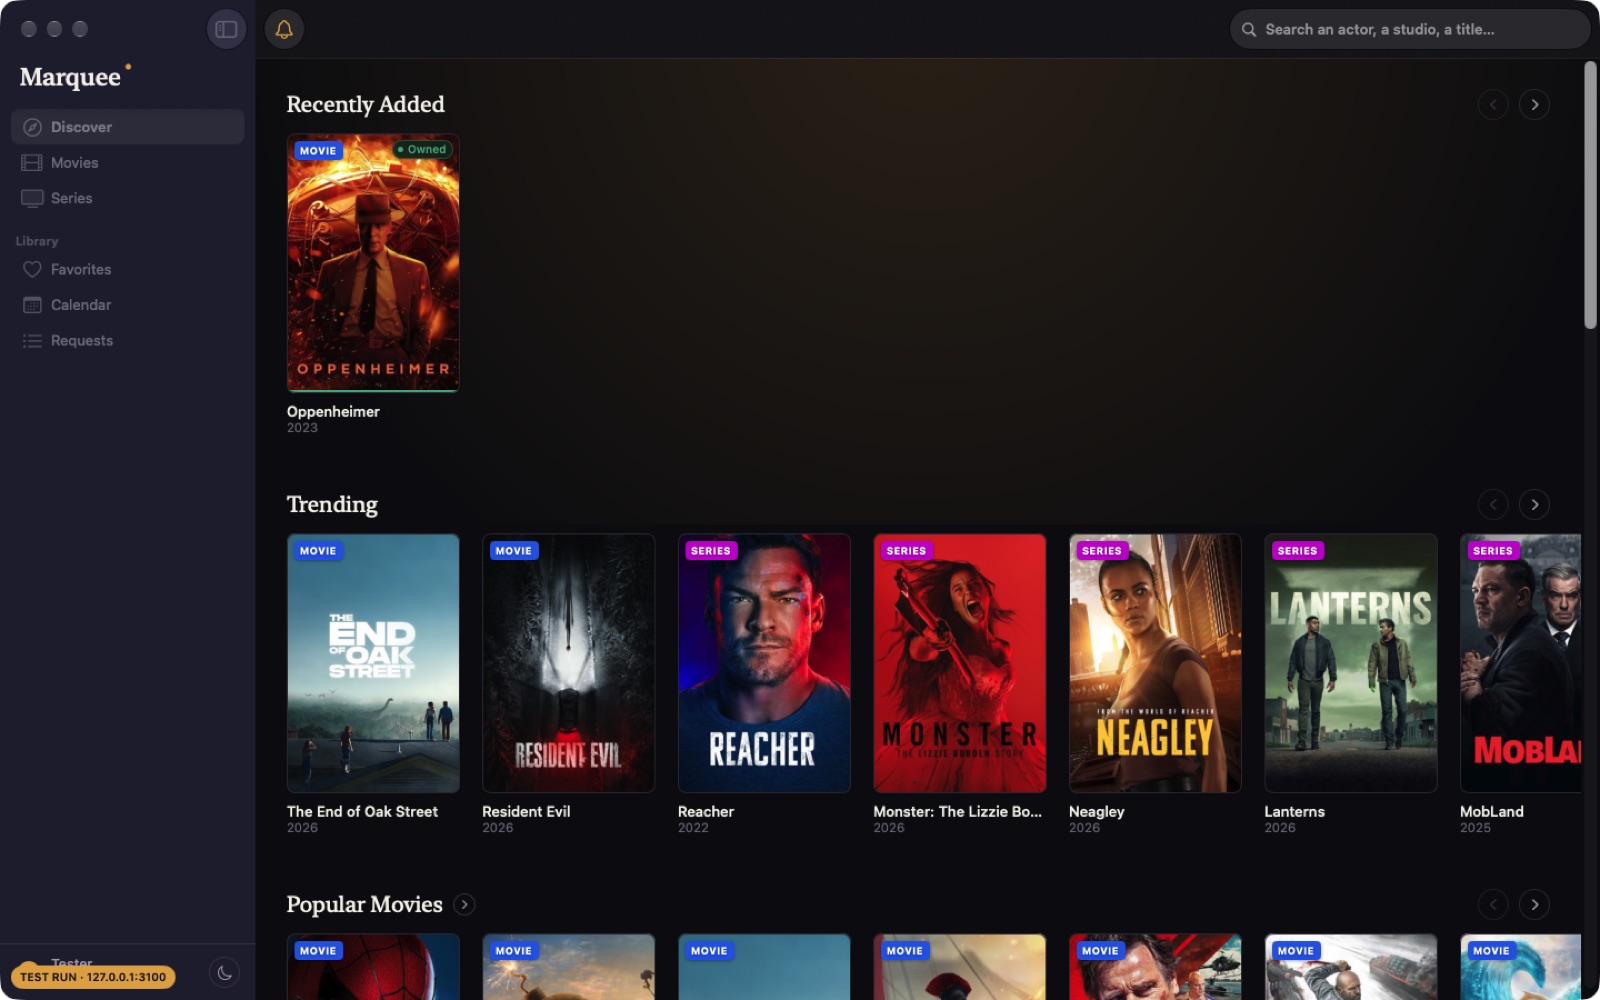
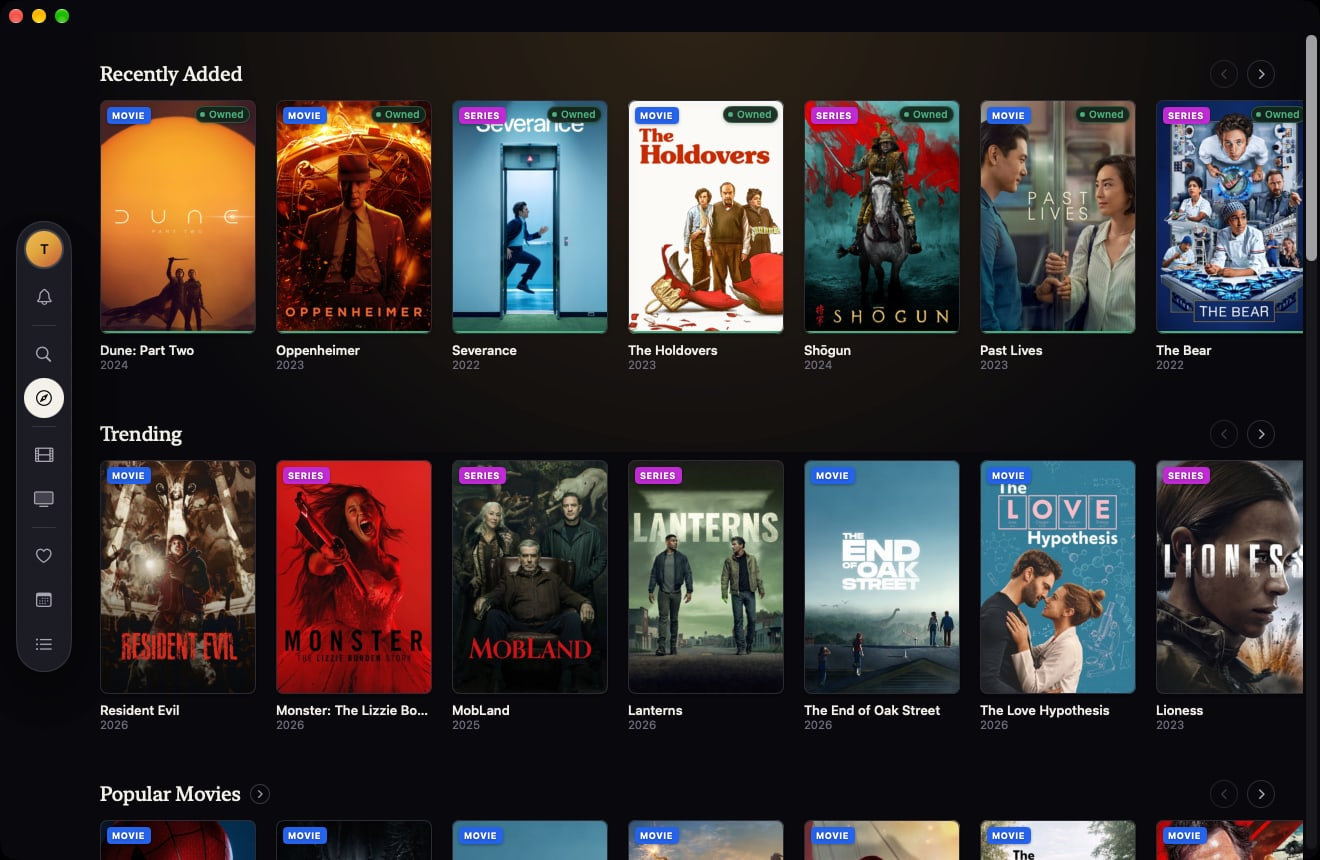
README screenshots of the current layout; 0.31.2
New captures of the website and the Mac app with the rail (search and
the bell on it): Discover and a title page, dark and light, from the test
server with a seeded library. scripts/landing/readme-screens.mjs takes the
website ones; the Mac ones use a Debug build, whose TEST RUN badge
MARQUEE_SCREENSHOTS=1 now hides. mac-requests.jpg is gone (unused).

diff --git a/mac/Marquee/Features/Auth/AuthViews.swift b/mac/Marquee/Features/Auth/AuthViews.swift
@@ -23,7 +23,7 @@ struct RootView: View {
         .background(Theme.bg0)
         .tint(Theme.accent)
         .overlay(alignment: .bottomTrailing) {
-            if let pinned = model.session.pinned {
+            if let pinned = model.session.pinned, !PinnedServerBadge.hiddenForScreenshots {
                 PinnedServerBadge(server: pinned.address.displayName)
             }
         }
@@ -38,6 +38,16 @@ struct RootView: View {
 /// obvious on screen that this window isn't talking to the real server.
 private struct PinnedServerBadge: View {
     let server: String
+
+    /// MARQUEE_SCREENSHOTS=1, for the README's captures of a test run
+    /// (scripts/landing). Debug builds only: a release always shows it.
+    static var hiddenForScreenshots: Bool {
+        #if DEBUG
+        ProcessInfo.processInfo.environment["MARQUEE_SCREENSHOTS"] == "1"
+        #else
+        false
+        #endif
+    }
 
     var body: some View {
         Text("TEST RUN · \(server)")

diff --git a/lib/changelog.ts b/lib/changelog.ts
@@ -11,6 +11,15 @@ export type ChangelogEntry = {
  * from 0.7.0 onward is written at push time. */
 export const CHANGELOG: ChangelogEntry[] = [
   {
+    version: "0.31.2",
+    date: "2026-09-25",
+    changes: [
+      "Settings › About in the Mac and Windows apps now says whether your server is up to date. If a newer Marquee is out, it names the version and how to update the server (pull the new Docker image; on Unraid, the Docker tab's Check for Updates).",
+      "The README is much shorter, with new screenshots of the current layout; the remote access guide has its own page.",
+      "Under the hood: the database migration history is back in step with the schema, so future database changes generate cleanly. Nothing in your database changes.",
+    ],
+  },
+  {
     version: "0.31.1",
     date: "2026-09-25",
     changes: [

diff --git a/scripts/landing/README.md b/scripts/landing/README.md
@@ -75,3 +75,20 @@ Use `--art <dir>` (or `MARQUEE_ARTWORK_DIR`) for another folder and
   to save if any of the original page's text survives. A `next dev` server on
   the same port works too: its overlay is stripped and its CSS folded onto
   one line.
+
+## README screenshots
+
+`docs/screenshots` are real captures of a test server, not renders:
+
+1. `mac/Scripts/local-server.sh up`, then give it a library: a `plex_servers`
+   row for the `tester` admin and a few `plex_library_items` (TMDb ids, an
+   `added_at`, a size and resolution), then open each title once through
+   the API so it's cached; otherwise Recently Added stays empty.
+2. Website: `node scripts/landing/readme-screens.mjs` writes `web-*.jpg`
+   (Discover and a title page, dark and light).
+3. Mac: run a Debug build pinned to the test server with the screenshot
+   switch, which hides the "TEST RUN" badge (Debug builds only):
+   `MARQUEE_SCREENSHOTS=1 MARQUEE_PINNED_SERVER=http://127.0.0.1:3100
+   MARQUEE_PINNED_TOKEN=<token> …/Marquee.app/Contents/MacOS/Marquee
+   -marquee-theme dark` (or `light`), and capture the window with
+   `screencapture -o -l <window id>`.
